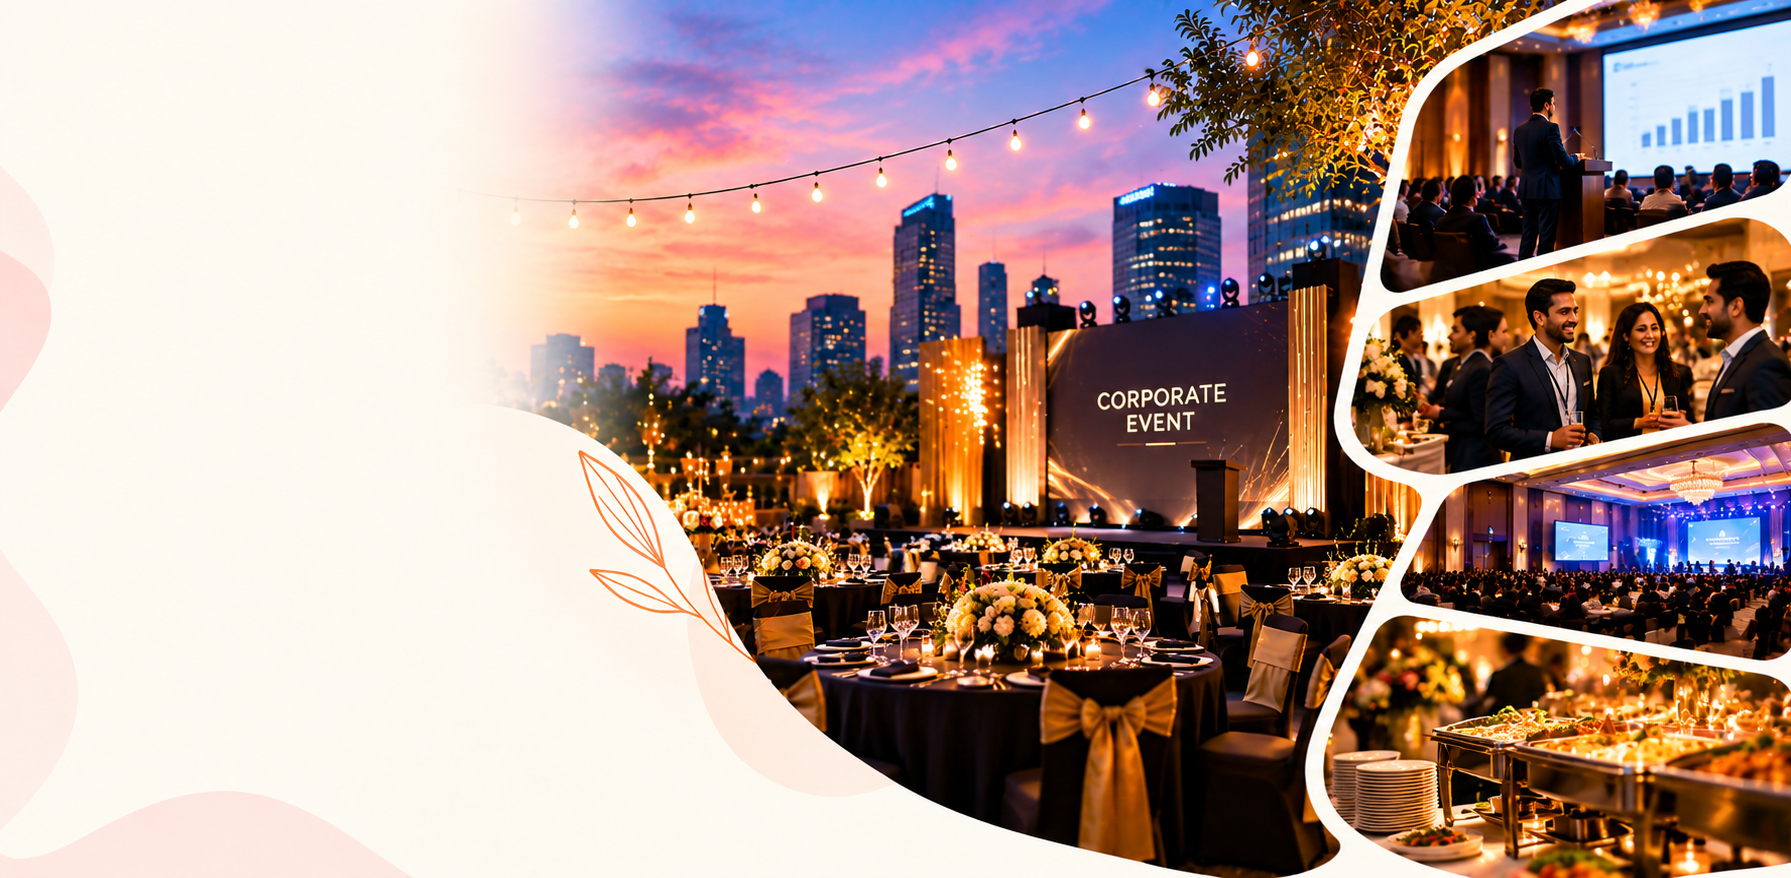
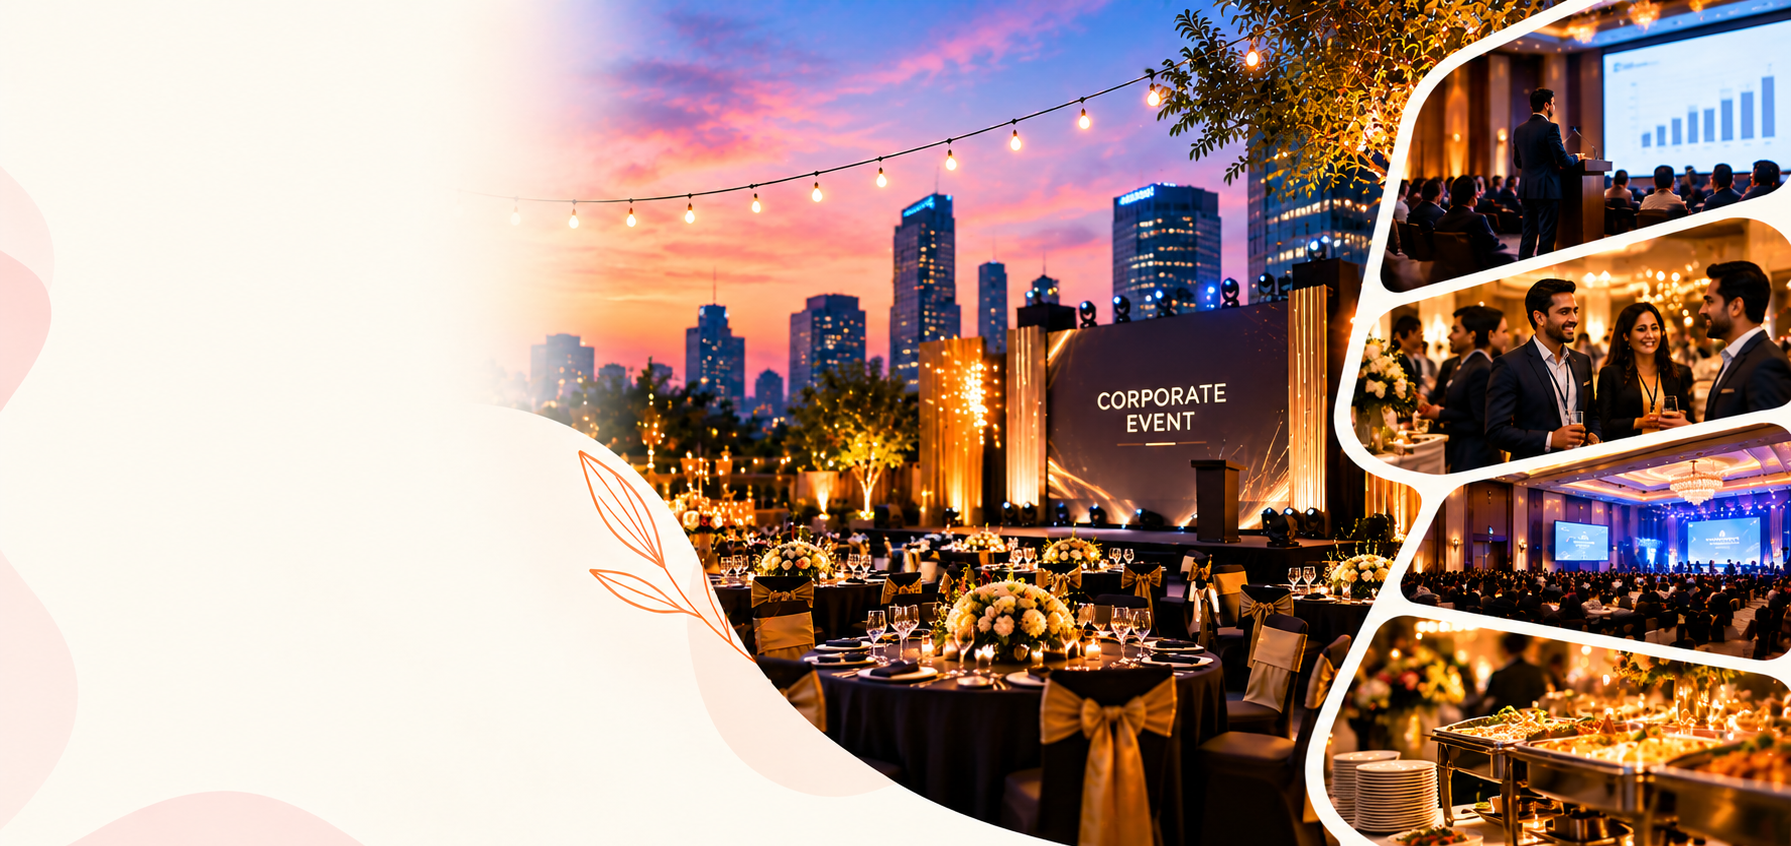
Increase hero height by 20px and trim bottom padding to fill space

diff --git a/frontend/src/components/Hero.css b/frontend/src/components/Hero.css
@@ -8,7 +8,7 @@
   position: relative;
   width: 100%;
   /* Aspect ratio mirrors the reference image (1672:696 ≈ 2.4:1) at desktop */
-  min-height: 636px;
+  min-height: 656px;
   display: flex;
   align-items: center;
   overflow: hidden;
